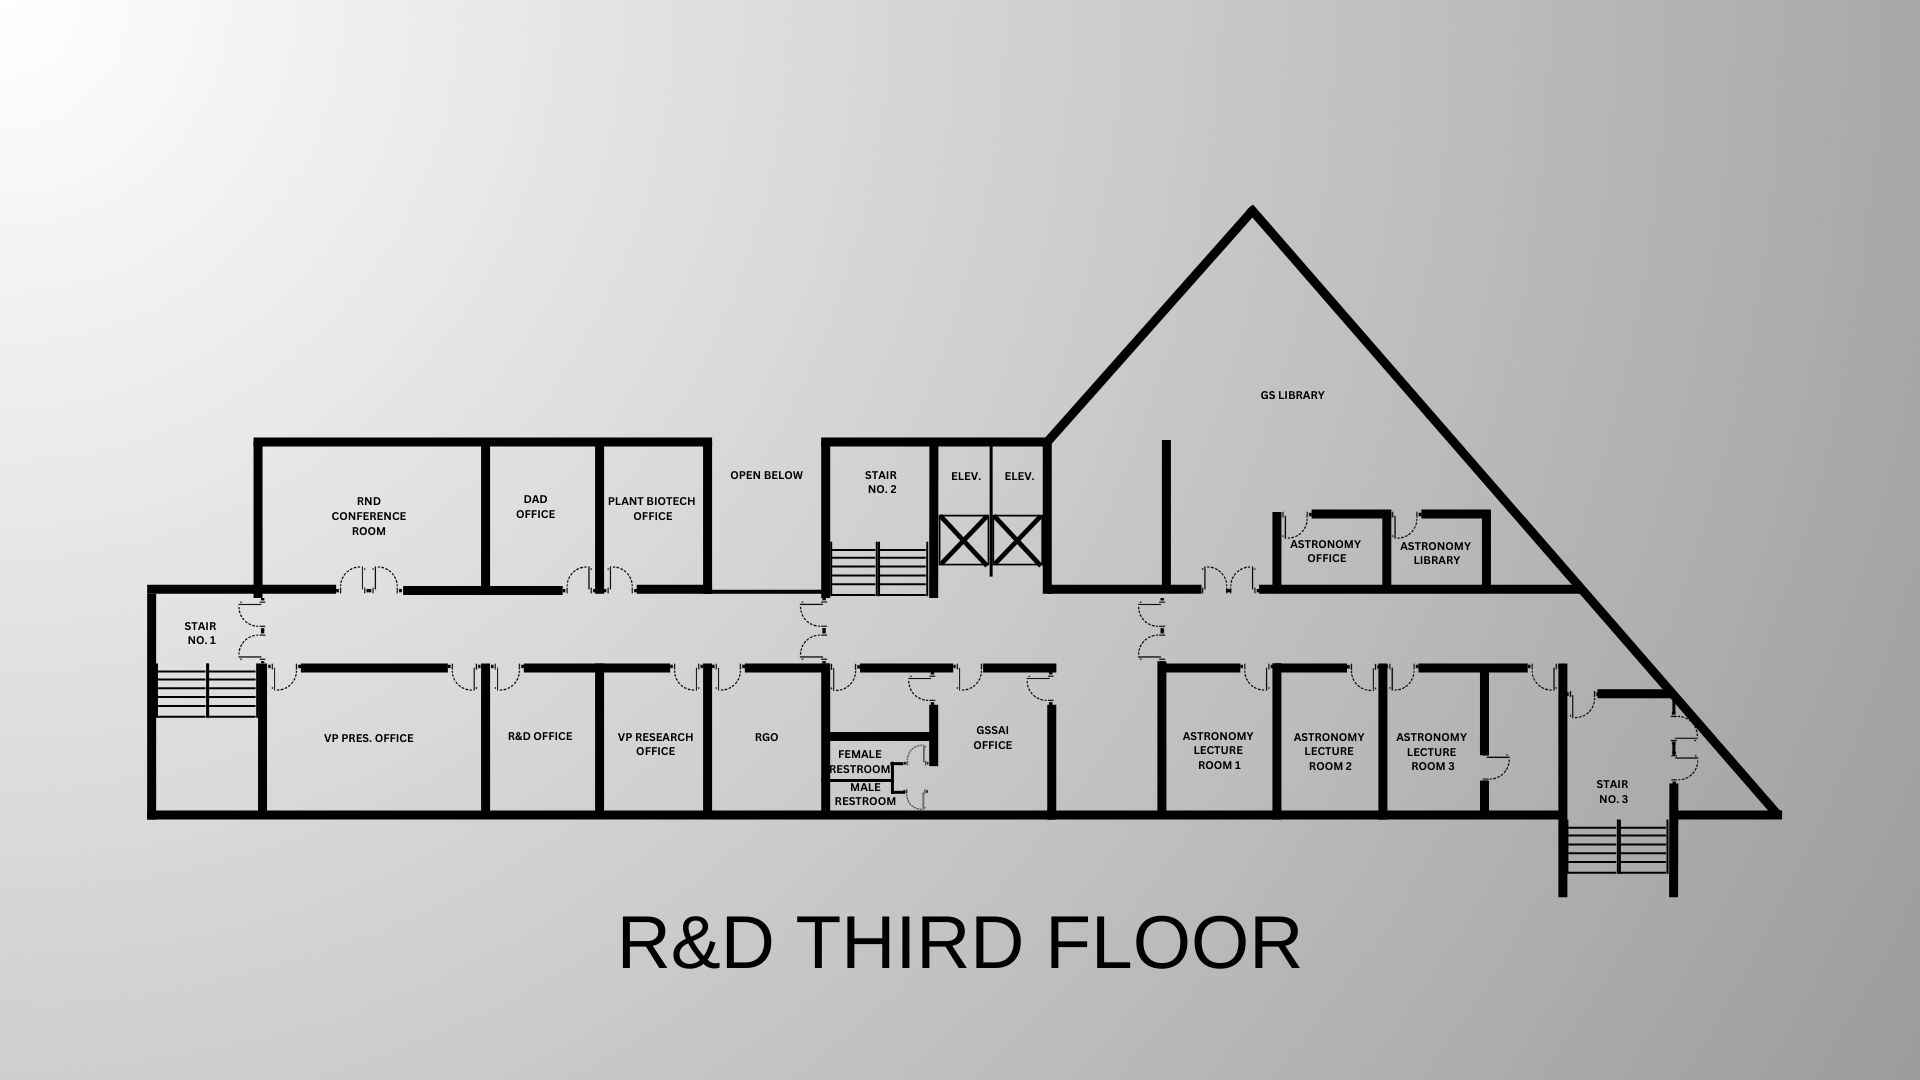
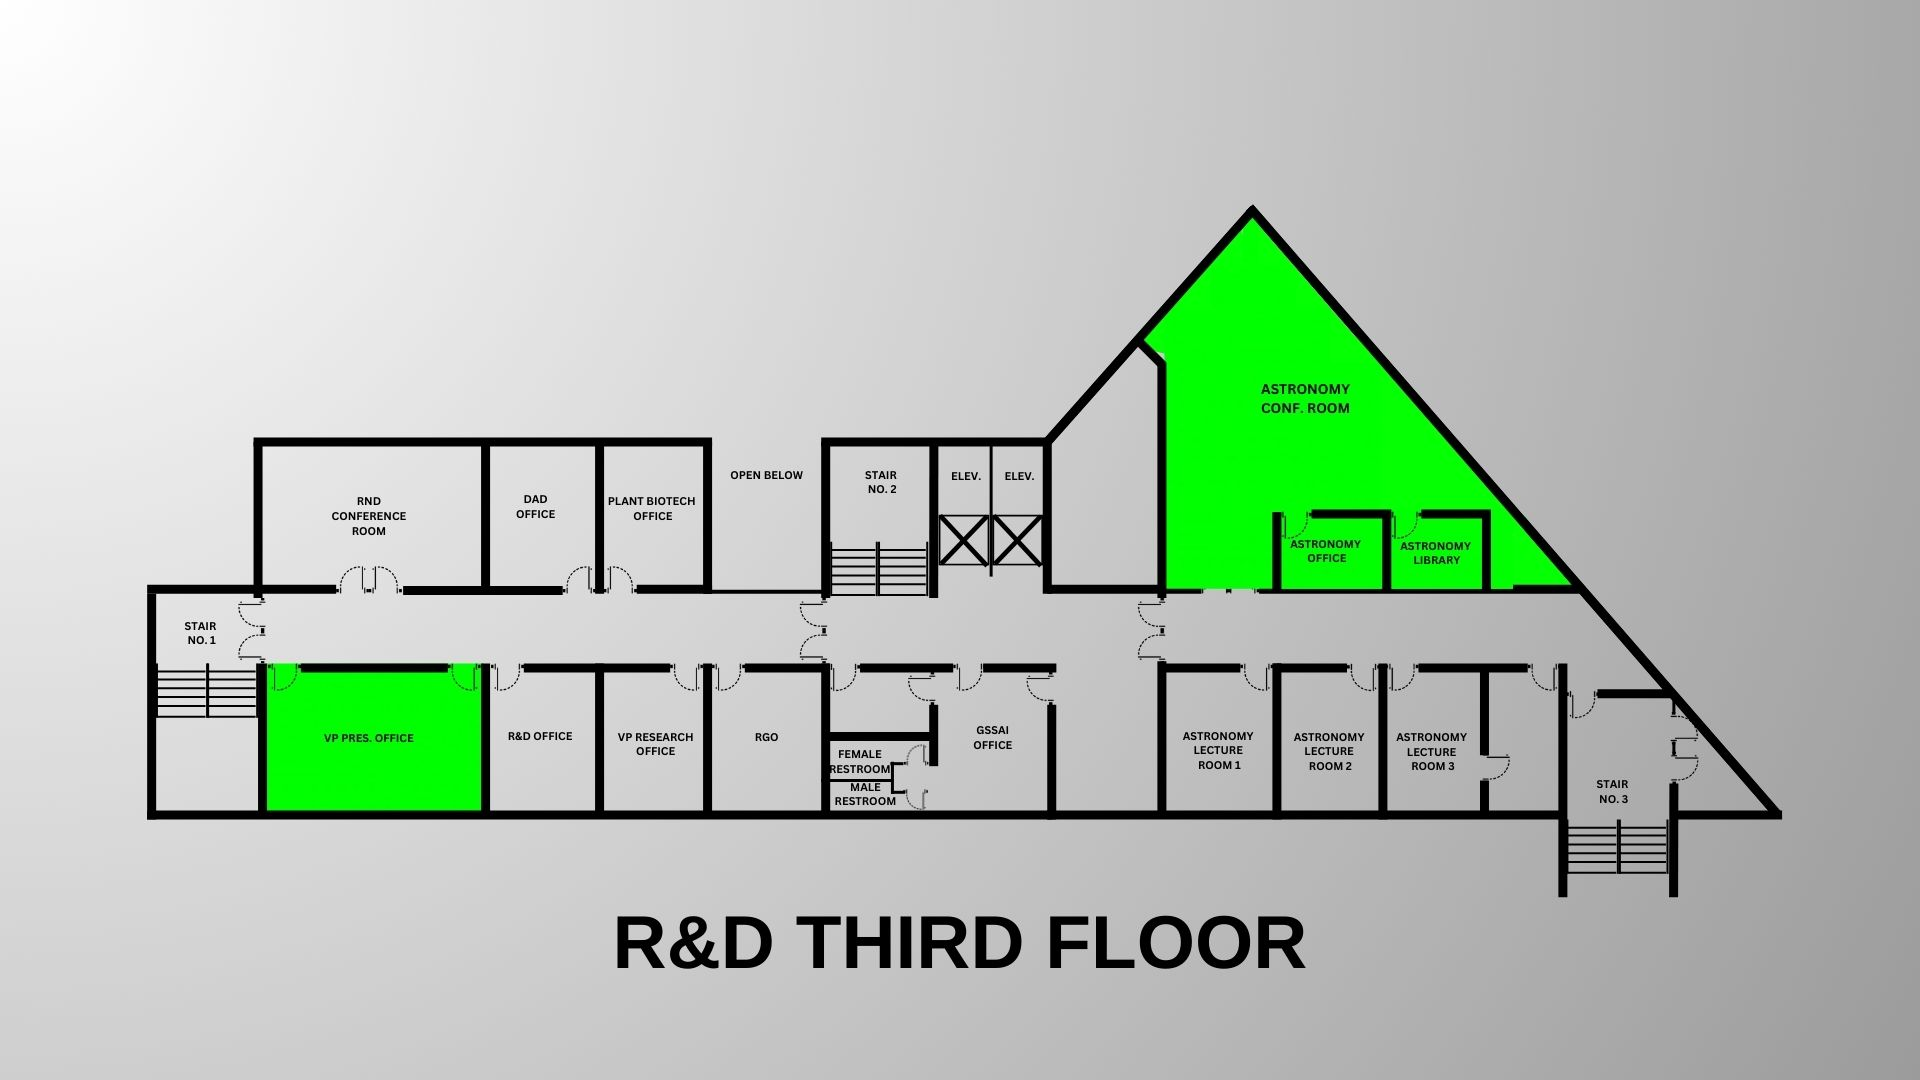
chore: added files with highlight, created highlight component

diff --git a/frontend/src/pages/MapPage.tsx b/frontend/src/pages/MapPage.tsx
@@ -5,6 +5,7 @@ import { TransformWrapper, TransformComponent } from "react-zoom-pan-pinch";
 import { useState } from "react";
 import {
   ENGR_BLDG,
+  HighlightsProps,
   ITB,
   JVE,
   MAB,
@@ -68,7 +69,7 @@ const MapPage = () => {
 
                   <BuildingComponent
                     folder={JVE}
-                    className="top-[140px] left-[465px] opacity-0 w-[165px] h-[370px]"
+                    className="top-[140px] left-[465px] w-[165px] h-[370px]"
                     setIsFloorSelected={(e) => setIsFloorSelected(e)}
                     getFolder={(folder) => setFolder(folder)}
                     getFloor={(floor) => setFloor(floor)}
@@ -76,7 +77,7 @@ const MapPage = () => {
                   />
                   <BuildingComponent
                     folder={ITB}
-                    className="top-[180px] left-[641px] w-[240px] h-[170px] opacity-0"
+                    className="top-[180px] left-[641px] w-[240px] h-[170px]"
                     setIsFloorSelected={(e) => setIsFloorSelected(e)}
                     getFolder={(folder) => setFolder(folder)}
                     getFloor={(floor) => setFloor(floor)}
@@ -84,7 +85,7 @@ const MapPage = () => {
                   />
                   <BuildingComponent
                     folder={WELLNESS}
-                    className="top-[82.5%] left-[48.5%] w-[180px] h-[100px] opacity-0"
+                    className="top-[82.5%] left-[48.5%] w-[180px] h-[100px]"
                     setIsFloorSelected={(e) => setIsFloorSelected(e)}
                     getFolder={(folder) => setFolder(folder)}
                     getFloor={(floor) => setFloor(floor)}
@@ -92,7 +93,7 @@ const MapPage = () => {
                   />
                   <BuildingComponent
                     folder={SNAGAH}
-                    className="top-[10.5%] left-[78%] w-[147px] h-[225px] opacity-0"
+                    className="top-[10.5%] left-[78%] w-[147px] h-[225px]"
                     setIsFloorSelected={(e) => setIsFloorSelected(e)}
                     getFolder={(folder) => setFolder(folder)}
                     getFloor={(floor) => setFloor(floor)}
@@ -100,7 +101,7 @@ const MapPage = () => {
                   />
                   <BuildingComponent
                     folder={OB}
-                    className="top-[67%] left-[32%] w-[543px] h-[63px] opacity-0"
+                    className="top-[67%] left-[32%] w-[543px] h-[63px]"
                     setIsFloorSelected={(e) => setIsFloorSelected(e)}
                     getFolder={(folder) => setFolder(folder)}
                     getFloor={(floor) => setFloor(floor)}
@@ -108,7 +109,7 @@ const MapPage = () => {
                   />
                   <BuildingComponent
                     folder={OB}
-                    className="top-[45%] left-[68.25%] w-[61px] h-[333px] opacity-0"
+                    className="top-[45%] left-[68.25%] w-[61px] h-[333px]"
                     setIsFloorSelected={(e) => setIsFloorSelected(e)}
                     getFolder={(folder) => setFolder(folder)}
                     getFloor={(floor) => setFloor(floor)}
@@ -116,7 +117,7 @@ const MapPage = () => {
                   />
                   <BuildingComponent
                     folder={OB}
-                    className="top-[16%] left-[67%] w-[79px] h-[252px] opacity-0"
+                    className="top-[16%] left-[67%] w-[79px] h-[252px]"
                     setIsFloorSelected={(e) => setIsFloorSelected(e)}
                     getFolder={(folder) => setFolder(folder)}
                     getFloor={(floor) => setFloor(floor)}
@@ -124,7 +125,7 @@ const MapPage = () => {
                   />
                   <BuildingComponent
                     folder={MAB}
-                    className="top-[75%] left-[47%] w-[315px] h-[58.5px] opacity-0"
+                    className="top-[75%] left-[47%] w-[315px] h-[58.5px]"
                     setIsFloorSelected={(e) => setIsFloorSelected(e)}
                     getFolder={(folder) => setFolder(folder)}
                     getFloor={(floor) => setFloor(floor)}
@@ -132,7 +133,7 @@ const MapPage = () => {
                   />
                   <BuildingComponent
                     folder={MAB}
-                    className="top-[82%] left-[65.1%] w-[47px] h-[138px] opacity-0"
+                    className="top-[82%] left-[65.1%] w-[47px] h-[138px]"
                     setIsFloorSelected={(e) => setIsFloorSelected(e)}
                     getFolder={(folder) => setFolder(folder)}
                     getFloor={(floor) => setFloor(floor)}
@@ -140,7 +141,7 @@ const MapPage = () => {
                   />
                   <BuildingComponent
                     folder={MAB}
-                    className="top-[86%] left-[68.25%] w-[55px] h-[60px] opacity-0"
+                    className="top-[86%] left-[68.25%] w-[55px] h-[60px]"
                     setIsFloorSelected={(e) => setIsFloorSelected(e)}
                     getFolder={(folder) => setFolder(folder)}
                     getFloor={(floor) => setFloor(floor)}
@@ -148,7 +149,7 @@ const MapPage = () => {
                   />
                   <BuildingComponent
                     folder={RND}
-                    className="top-[15.5%] left-[73%] w-[75px] h-[344px] opacity-0"
+                    className="top-[15.5%] left-[73%] w-[75px] h-[344px]"
                     setIsFloorSelected={(e) => setIsFloorSelected(e)}
                     getFolder={(folder) => setFolder(folder)}
                     getFloor={(floor) => setFloor(floor)}
@@ -156,13 +157,17 @@ const MapPage = () => {
                   />
                   <BuildingComponent
                     folder={ENGR_BLDG}
-                    className="top-[4%] left-[34%] w-[125px] h-[90px] opacity-0"
+                    className="top-[4%] left-[34%] w-[125px] h-[90px]"
                     setIsFloorSelected={(e) => setIsFloorSelected(e)}
                     getFolder={(folder) => setFolder(folder)}
                     getFloor={(floor) => setFloor(floor)}
                     disabled={isFloorSelected}
                   />
-                  {/* TODO: Add RND Building */}
+
+                  {/* Highlights */}
+                  {!isFloorSelected && (
+                    <Highlights className="top-[21%] left-[1%]" />
+                  )}
                 </div>
               </TransformComponent>
               <Button
@@ -182,6 +187,50 @@ const MapPage = () => {
         </TransformWrapper>
       </div>
       <div className="flex"></div>
+    </div>
+  );
+};
+
+const Highlights = ({ className }: HighlightsProps) => {
+  return (
+    <div
+      className={`absolute disabled:opacity-0 ${className} flex-col flex space-y-2`}
+    >
+      <Button
+        variant={"outline"}
+        className="h-13"
+      >{`Management Information Center (MIC)`}</Button>
+      <Button variant={"outline"} className="h-13">
+        Cashier
+      </Button>
+      <Button variant={"outline"} className="h-13">
+        Computer Engineering Department
+      </Button>
+      <Button variant={"outline"} className="h-13">
+        COOP
+      </Button>
+      <Button variant={"outline"} className="h-13">
+        Office of the President
+      </Button>
+      <Button variant={"outline"} className="h-13">
+        Registrar's Office
+      </Button>
+      <Button variant={"outline"} className="h-13">
+        Scholarship and Financial Assistance Unit
+      </Button>
+      <Button variant={"outline"} className="h-13">
+        Student and Alumni Affairs Services Unit
+      </Button>
+      <Button variant={"outline"} className="h-13">
+        CEIT Dean's Office
+      </Button>
+      <Button
+        variant={"outline"}
+        className="h-13"
+      >{`Cooperative Education Office (COE)`}</Button>
+      <Button variant={"outline"} className="h-13">
+        Cultural Affairs Office
+      </Button>
     </div>
   );
 };

diff --git a/frontend/src/interface.ts b/frontend/src/interface.ts
@@ -11,6 +11,60 @@ export const RND = "R&D";
 export const SNAGAH = "SNAGAH";
 export const JVE = "JVE";
 
+export const MIC = {
+  folder: ITB,
+  floor: "FLOOR1.jpg",
+};
+
+export const CASHIER = {
+  folder: ITB,
+  floor: "FLOOR1.jpg",
+};
+
+export const CPE_DEPT = {
+  folder: JVE,
+  floor: "FLOOR1.jpg",
+};
+
+export const COOP = {
+  folder: OB,
+  floor: "FLOOR1.jpg",
+};
+
+export const OFFICE_PRESIDENT = {
+  folder: ITB,
+  floor: "FLOOR2.jpg",
+};
+
+export const REGISTRAR = {
+  folder: MAB,
+  floor: "FLOOR1.jpg",
+};
+
+export const SCHOLARSHIP_AND_FINANCIAL_ASSISTANCE_UNIT = {
+  folder: MAB,
+  floor: "FLOOR1.jpg",
+};
+export const STUDENT_AND_ALUMNI_AFFAIRS_SERVICES = {
+  folder: MAB,
+  floor: "FLOOR1.jpg",
+};
+
+export const CEIT_DEAN_OFFICE = {
+  folder: JVE,
+  floor: "FLOOR2.jpg",
+};
+
+export const COE = {
+  folder: JVE,
+  floor: "FLOOR3.jpg",
+};
+
+export const CULTURAL_AFFAIRS_OFFICE = {
+  folder: ITB,
+  floor: "FLOOR5.jpg",
+};
+
 export interface ImageData {
   filename: string;
   duration: number;
@@ -238,4 +292,8 @@ export interface BuildingComponentProps {
 export interface BuildingInfo {
   building_name: string;
   image_files: string[];
+}
+
+export interface HighlightsProps {
+  className?: string;
 }

diff --git a/frontend/src/my_components/BuildingComponent.tsx b/frontend/src/my_components/BuildingComponent.tsx
@@ -63,7 +63,7 @@ const BuildingComponent = ({
     >
       <DialogTrigger asChild>
         <Button
-          className={`absolute ${className} disabled:opacity-0`}
+          className={`absolute ${className} disabled:opacity-0 opacity-0`}
           disabled={disabled}
         />
       </DialogTrigger>
